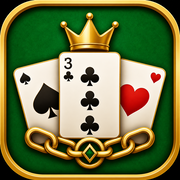
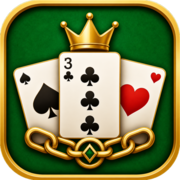
style: restyle UI to shadcn-like dark theme (zinc surfaces, subtle borders, focus rings, gold primary)

diff --git a/client/src/style.css b/client/src/style.css
@@ -3,68 +3,85 @@
 @import 'tailwindcss/theme.css' layer(theme);
 @import 'tailwindcss/utilities.css' layer(utilities);
 
+/* ---------- ธีม shadcn (dark / zinc) ---------- */
 :root {
-  --green: #0f5132;
-  --green-light: #157347;
-  --felt: #15803d;
-  --gold: #f5c542;
-  --red: #d6336c;
-  --ink: #1a1a2e;
-  --paper: #fff;
+  --background: #0a0a0b;
+  --surface: #161618;       /* card */
+  --surface-2: #202024;     /* nested / hover */
+  --border: #2a2a30;
+  --foreground: #fafafa;
+  --muted-foreground: #a1a1aa;
+  --primary: #f5c542;       /* gold accent */
+  --primary-foreground: #18181b;
+  --primary-hover: #e6b933;
+  --ring: rgba(245, 197, 66, 0.45);
+  --red: #ef4444;           /* แดง (ดอกไพ่ + error) */
+  --paper: #fafafa;         /* หน้าไพ่ */
+  --ink: #18181b;           /* ตัวเลขบนไพ่ */
+  --radius: 12px;
 }
 * { box-sizing: border-box; margin: 0; padding: 0; -webkit-tap-highlight-color: transparent; }
 html, body { height: 100%; }
 body {
   font-family: 'Sarabun', -apple-system, 'Segoe UI', system-ui, sans-serif;
-  background: radial-gradient(circle at 50% 20%, #1c7d4a, #0b3d24 70%);
-  color: #fff;
+  background: radial-gradient(circle at 50% -10%, #15241d 0%, var(--background) 62%);
+  color: var(--foreground);
   min-height: 100dvh;
   overflow-x: hidden;
 }
 .screen { min-height: 100dvh; display: flex; flex-direction: column; position: relative; }
 .hidden { display: none !important; }
 
+/* ---------- ฟอร์ม (shadcn) ---------- */
+input {
+  padding: 10px 14px; border-radius: 8px;
+  border: 1px solid var(--border);
+  font-size: 0.95rem; font-family: inherit;
+  background: var(--background); color: var(--foreground);
+  transition: border-color .15s, box-shadow .15s;
+}
+input::placeholder { color: var(--muted-foreground); }
+input:focus { outline: none; border-color: var(--primary); box-shadow: 0 0 0 3px var(--ring); }
+button {
+  padding: 10px 16px; border-radius: 8px; border: 1px solid var(--border);
+  font-size: 0.9rem; font-weight: 600; font-family: inherit; cursor: pointer;
+  background: var(--surface-2); color: var(--foreground);
+  transition: background .15s, border-color .15s, transform .06s, box-shadow .15s;
+}
+button:hover { background: #2a2a30; }
+button:active { transform: scale(0.98); }
+button:focus-visible { outline: none; box-shadow: 0 0 0 3px var(--ring); }
+button.primary { background: var(--primary); color: var(--primary-foreground); border-color: transparent; font-weight: 700; }
+button.primary:hover { background: var(--primary-hover); }
+button:disabled { opacity: 0.5; cursor: not-allowed; }
+
 /* ---------- Lobby ---------- */
 #lobby-screen { align-items: center; justify-content: center; padding: 20px; }
 .card-panel {
-  background: rgba(255,255,255,0.08);
-  backdrop-filter: blur(8px);
-  border: 1px solid rgba(255,255,255,0.15);
-  border-radius: 20px;
-  padding: 32px 24px;
-  width: 100%; max-width: 360px;
+  background: var(--surface);
+  border: 1px solid var(--border);
+  border-radius: var(--radius);
+  padding: 28px 24px;
+  width: 100%; max-width: 380px;
   display: flex; flex-direction: column; gap: 12px;
-  box-shadow: 0 20px 60px rgba(0,0,0,0.4);
+  box-shadow: 0 12px 36px rgba(0,0,0,0.5);
 }
 .project-logo {
-  width: 96px; height: 96px; object-fit: cover; align-self: center;
-  border-radius: 22px; box-shadow: 0 10px 28px rgba(0,0,0,0.35);
+  width: 88px; height: 88px; object-fit: cover; align-self: center;
+  border-radius: 18px; border: 1px solid var(--border);
+  box-shadow: 0 8px 24px rgba(0,0,0,0.4);
 }
-.card-panel h1 { text-align: center; font-size: 2.2rem; }
-.sub { text-align: center; opacity: 0.8; margin-bottom: 8px; }
-input {
-  padding: 14px 16px; border-radius: 12px; border: none;
-  font-size: 1.05rem; font-family: inherit; background: #fff; color: var(--ink);
-}
-input:focus { outline: 3px solid var(--gold); }
-button {
-  padding: 14px 16px; border-radius: 12px; border: none; cursor: pointer;
-  font-size: 1.05rem; font-weight: 700; font-family: inherit;
-  background: rgba(255,255,255,0.15); color: #fff; transition: transform .08s, background .15s;
-}
-button:active { transform: scale(0.97); }
-button.primary { background: var(--gold); color: var(--ink); }
-button:disabled { opacity: 0.4; cursor: not-allowed; }
-.divider { display: flex; align-items: center; gap: 10px; opacity: 0.6; margin: 4px 0; }
-.divider::before, .divider::after { content: ''; flex: 1; height: 1px; background: rgba(255,255,255,0.3); }
+.card-panel h1 { text-align: center; font-size: 1.9rem; font-weight: 800; letter-spacing: -0.02em; }
+.sub { text-align: center; color: var(--muted-foreground); font-size: 0.9rem; margin-bottom: 8px; }
+.divider { display: flex; align-items: center; gap: 10px; color: var(--muted-foreground); margin: 4px 0; }
+.divider::before, .divider::after { content: ''; flex: 1; height: 1px; background: var(--border); }
 
 /* ปุ่มสร้างห้อง / เข้าห้อง วางคู่กัน */
 .lobby-actions { display: flex; gap: 10px; }
 .lobby-actions button { flex: 1; }
 /* ไฮไลต์ปุ่ม "เข้าห้อง" ตอนเปิดช่องรหัสอยู่ */
 #join-toggle-btn.active {
-  background: rgba(245,197,66,0.15); color: var(--gold);
-  box-shadow: inset 0 0 0 2px var(--gold);
+  background: rgba(245,197,66,0.12); color: var(--primary); border-color: var(--primary);
 }
 
 /* ช่องรหัสห้อง — สไลด์เผยตอนกด "เข้าห้อง" */
@@ -84,23 +101,24 @@ button:disabled { opacity: 0.4; cursor: not-allowed; }
   letter-spacing: 6px; font-weight: 800; font-size: 1.3rem;
 }
 #code-input::placeholder { letter-spacing: normal; font-weight: 400; font-size: 0.95rem; }
-.error { color: #ffd0d0; text-align: center; min-height: 1.2em; font-size: 0.9rem; }
+.error { color: var(--red); text-align: center; min-height: 1.2em; font-size: 0.9rem; }
 
 /* ---------- Game ---------- */
 #topbar {
   display: flex; justify-content: center; align-items: center;
-  padding: 10px 16px; background: rgba(0,0,0,0.25);
+  padding: 12px 16px; background: var(--surface); border-bottom: 1px solid var(--border);
 }
-.room-code { font-size: 0.95rem; opacity: 0.9; cursor: pointer; -webkit-user-select: none; user-select: none; }
-.room-code strong { color: var(--gold); letter-spacing: 2px; font-size: 1.1rem; }
+.room-code { font-size: 0.9rem; color: var(--muted-foreground); cursor: pointer; -webkit-user-select: none; user-select: none; }
+.room-code strong { color: var(--primary); letter-spacing: 2px; font-size: 1.05rem; }
 .room-code .copy-hint { font-size: 0.85rem; opacity: 0.7; }
 .room-code:active { opacity: 0.6; }
 
-/* Toast แจ้งเตือนชั่วคราว */
+/* Toast แจ้งเตือนชั่วคราว (shadcn) */
 .toast {
   position: fixed; left: 50%; bottom: 32px; transform: translateX(-50%) translateY(10px);
-  background: var(--ink); color: #fff; padding: 12px 22px; border-radius: 24px;
-  font-size: 0.95rem; font-weight: 600; box-shadow: 0 6px 20px rgba(0,0,0,0.4);
+  background: var(--surface); color: var(--foreground); border: 1px solid var(--border);
+  padding: 12px 20px; border-radius: 10px;
+  font-size: 0.9rem; font-weight: 600; box-shadow: 0 10px 30px rgba(0,0,0,0.55);
   z-index: 1000; opacity: 0; transition: opacity .2s, transform .2s; pointer-events: none;
 }
 .toast.show { opacity: 1; transform: translateX(-50%) translateY(0); }
@@ -109,35 +127,34 @@ button:disabled { opacity: 0.4; cursor: not-allowed; }
 .toast.top { top: 24px; bottom: auto; transform: translateX(-50%) translateY(-10px); }
 .toast.top.show { transform: translateX(-50%) translateY(0); }
 /* สีแดงสำหรับ error */
-.toast.error { background: var(--red); color: #fff; }
+.toast.error { background: var(--red); color: #fff; border-color: transparent; }
 /* ชื่อคนที่ต้องลงไพ่ — ใต้กองไพ่ */
 #turn-info {
   position: relative; z-index: 1; min-height: 1.4em;
-  font-weight: 800; font-size: 1.05rem; text-align: center;
+  font-weight: 700; font-size: 1.05rem; text-align: center;
 }
-#turn-info.your-turn { color: var(--gold); animation: pulse 1.2s infinite; }
+#turn-info.your-turn { color: var(--primary); animation: pulse 1.2s infinite; }
 @keyframes pulse { 50% { opacity: 0.5; } }
 
 #players {
   display: flex; gap: 8px; padding: 12px 16px; flex-wrap: wrap; justify-content: center;
 }
 .player-chip {
-  background: rgba(255,255,255,0.1); border-radius: 14px; padding: 8px 12px;
+  background: var(--surface); border-radius: 10px; padding: 8px 12px;
   display: flex; flex-direction: column; align-items: center; min-width: 76px;
-  border: 2px solid transparent; transition: border-color .2s;
+  border: 1px solid var(--border); transition: border-color .2s, box-shadow .2s;
 }
-.player-chip.turn { border-color: var(--gold); box-shadow: 0 0 16px rgba(245,197,66,0.5); }
-.player-chip.finished { opacity: 0.55; }
-.player-chip .pname { font-weight: 700; font-size: 0.9rem; }
-.player-chip .pcount { font-size: 0.8rem; opacity: 0.85; }
-.player-chip .badge { font-size: 0.7rem; color: var(--gold); }
+.player-chip.turn { border-color: var(--primary); box-shadow: 0 0 0 1px var(--primary), 0 0 18px rgba(245,197,66,0.25); }
+.player-chip.finished { opacity: 0.5; }
+.player-chip .pname { font-weight: 600; font-size: 0.9rem; }
+.player-chip .pcount { font-size: 0.8rem; color: var(--muted-foreground); }
+.player-chip .badge { font-size: 0.7rem; color: var(--primary); }
 .player-chip .ptitle {
   margin-top: 3px; font-size: 0.72rem; font-weight: 700;
-  padding: 1px 8px; border-radius: 10px;
-  background: rgba(245,197,66,0.18); color: var(--gold);
+  padding: 1px 8px; border-radius: 999px;
+  background: rgba(245,197,66,0.15); color: var(--primary); border: 1px solid rgba(245,197,66,0.3);
 }
 .player-chip.offline .pname::after { content: ' 📴'; }
-
 
 #table {
   flex: 1; display: flex; flex-direction: column; align-items: center; justify-content: center;
@@ -147,37 +164,38 @@ button:disabled { opacity: 0.4; cursor: not-allowed; }
 #dir-indicator {
   position: absolute; top: 50%; left: 52.5%; transform: translate(-50%, -50%) rotate(90deg);
   font-size: clamp(140px, 32vh, 300px); line-height: 1; font-weight: 400;
-  color: #fff; opacity: 0.07; pointer-events: none; z-index: 0;
+  color: #fff; opacity: 0.05; pointer-events: none; z-index: 0;
   -webkit-user-select: none; user-select: none;
 }
 #pile-label, #pile-cards { position: relative; z-index: 1; }
-#pile-label { opacity: 0.6; font-size: 0.85rem; }
+#pile-label { color: var(--muted-foreground); font-size: 0.85rem; }
 #pile-cards { display: flex; gap: 6px; min-height: 92px; align-items: center; }
 
 /* ประวัติการลงไพ่ — แถวแนวนอน เลื่อนซ้าย-ขวา */
 #log {
   display: flex; align-items: center; gap: 10px;
   justify-content: safe center;
-  font-size: 0.8rem; padding: 8px 16px;
+  font-size: 0.8rem; padding: 8px 16px; color: var(--muted-foreground);
   white-space: nowrap; overflow-x: auto; overflow-y: hidden;
 }
 .log-item { flex: none; display: inline-flex; align-items: center; gap: 3px; }
-.log-name { opacity: 0.65; font-size: 0.72rem; margin-right: 2px; }
-.log-event { opacity: 0.6; font-size: 0.72rem; }
-.log-pass { opacity: 0.5; }
+.log-name { color: var(--muted-foreground); font-size: 0.72rem; margin-right: 2px; }
+.log-event { color: var(--muted-foreground); font-size: 0.72rem; }
+.log-pass { opacity: 0.65; }
 .mini-card {
   display: inline-flex; align-items: center; justify-content: center;
-  background: #fff; color: var(--ink); border-radius: 4px;
+  background: var(--paper); color: var(--ink); border-radius: 4px;
   padding: 2px 5px; font-size: 0.72rem; font-weight: 800; line-height: 1;
-  box-shadow: 0 1px 2px rgba(0,0,0,0.3);
+  box-shadow: 0 1px 3px rgba(0,0,0,0.5);
 }
 .mini-card.red { color: var(--red); }
 
 /* ---------- Cards ---------- */
 .playing-card {
-  width: 62px; height: 88px; border-radius: 9px; background: var(--paper);
+  width: 62px; height: 88px; border-radius: 8px; background: var(--paper);
   color: var(--ink); position: relative; flex-shrink: 0;
-  box-shadow: 0 3px 8px rgba(0,0,0,0.35); font-weight: 800;
+  border: 1px solid rgba(0,0,0,0.08);
+  box-shadow: 0 3px 10px rgba(0,0,0,0.45); font-weight: 800;
   display: flex; align-items: center; justify-content: center; -webkit-user-select: none; user-select: none;
 }
 .playing-card.red { color: var(--red); }
@@ -187,7 +205,7 @@ button:disabled { opacity: 0.4; cursor: not-allowed; }
 .playing-card .pip { font-size: 1.7rem; }
 
 #hand-area {
-  background: rgba(0,0,0,0.3);
+  background: var(--surface); border-top: 1px solid var(--border);
   padding: 10px 10px max(10px, env(safe-area-inset-bottom));
   margin-top: auto; /* ดันชิดขอบล่างสุดของจอ */
 }
@@ -196,20 +214,19 @@ button:disabled { opacity: 0.4; cursor: not-allowed; }
   padding: 4px 4px 8px; overflow-x: auto;
 }
 #combo-hints.hidden { display: none; }
-.combo-hints-label { font-size: 0.78rem; opacity: 0.8; white-space: nowrap; }
+.combo-hints-label { font-size: 0.78rem; color: var(--muted-foreground); white-space: nowrap; }
 .combo-chip {
-  flex: none; width: auto; font-size: 0.8rem; font-weight: 700;
-  padding: 5px 10px; border-radius: 14px; border: 1px solid var(--gold);
-  background: rgba(245,197,66,0.15); color: var(--gold);
-  cursor: pointer; white-space: nowrap; transition: background .12s;
+  flex: none; width: auto; font-size: 0.8rem; font-weight: 600;
+  padding: 5px 12px; border-radius: 999px; border: 1px solid rgba(245,197,66,0.4);
+  background: rgba(245,197,66,0.1); color: var(--primary);
+  cursor: pointer; white-space: nowrap; transition: background .12s, color .12s;
 }
-.combo-chip:active { background: rgba(245,197,66,0.35); }
-.combo-chip.active { background: var(--gold); color: var(--ink); }
+.combo-chip:active { background: rgba(245,197,66,0.25); }
+.combo-chip.active { background: var(--primary); color: var(--primary-foreground); border-color: transparent; }
 /* ปุ่มสลับโหมดเรียงไพ่ */
 #sort-toggle {
   display: block; margin: 0 auto 6px; width: auto; flex: none;
-  font-size: 0.78rem; font-weight: 700; padding: 6px 14px; border-radius: 14px;
-  background: rgba(255,255,255,0.12);
+  font-size: 0.78rem; font-weight: 600; padding: 6px 14px; border-radius: 999px;
 }
 #hand {
   display: flex; gap: 0; overflow-x: auto; overflow-y: visible;
@@ -221,7 +238,7 @@ button:disabled { opacity: 0.4; cursor: not-allowed; }
   width: 58px; height: 84px;
 }
 #hand .playing-card:first-child { margin-left: 0; }
-#hand .playing-card.selected { transform: translateY(-18px); box-shadow: 0 8px 16px rgba(0,0,0,0.5); outline: 3px solid var(--gold); }
+#hand .playing-card.selected { transform: translateY(-18px); box-shadow: 0 10px 20px rgba(0,0,0,0.55); outline: 2px solid var(--primary); outline-offset: 1px; }
 #actions { display: flex; gap: 10px; padding: 0 8px; }
 #actions button { flex: 1; }
 
@@ -231,49 +248,54 @@ button:disabled { opacity: 0.4; cursor: not-allowed; }
   position: absolute; left: 50%; top: 50%;
   transform: translate(-50%, -50%);
   flex: none; width: auto; min-width: 240px; max-width: 80vw;
-  padding: 18px 44px; font-size: 1.25rem;
-  border-radius: 16px; z-index: 20;
-  box-shadow: 0 12px 32px rgba(0,0,0,0.45);
+  padding: 16px 44px; font-size: 1.15rem;
+  border-radius: 12px; z-index: 20;
+  box-shadow: 0 16px 40px rgba(0,0,0,0.5);
 }
 #start-btn:not(.hidden):active,
 #again-btn:not(.hidden):active {
   transform: translate(-50%, -50%) scale(0.97);
 }
 
-/* ---------- Modal ---------- */
+/* ---------- Modal (shadcn dialog) ---------- */
 .modal {
-  position: fixed; inset: 0; background: rgba(0,0,0,0.7);
+  position: fixed; inset: 0; background: rgba(0,0,0,0.8);
   display: flex; align-items: center; justify-content: center; padding: 20px; z-index: 50;
 }
 .modal-box {
-  background: #fff; color: var(--ink); border-radius: 20px; padding: 28px;
-  width: 100%; max-width: 340px; text-align: center;
+  background: var(--surface); color: var(--foreground);
+  border: 1px solid var(--border); border-radius: var(--radius); padding: 24px;
+  width: 100%; max-width: 360px; text-align: center;
+  box-shadow: 0 24px 60px rgba(0,0,0,0.6);
 }
-.modal-box h2 { margin-bottom: 16px; }
+.modal-box h2 { margin-bottom: 16px; font-weight: 800; }
 #result-list { text-align: left; list-style: none; }
-#result-list li { padding: 10px 14px; margin: 6px 0; border-radius: 10px; background: #f0f0f5; font-weight: 700; }
-#result-list li.rank-0 { background: var(--gold); }
-#result-list li.rank-last { background: #ffd0d0; }
-#result-close { margin-top: 16px; background: var(--green); color: #fff; width: 100%; }
+#result-list li {
+  padding: 10px 14px; margin: 6px 0; border-radius: 8px;
+  background: var(--surface-2); border: 1px solid var(--border); color: var(--foreground); font-weight: 700;
+}
+#result-list li.rank-0 { background: var(--primary); color: var(--primary-foreground); border-color: transparent; }
+#result-list li.rank-last { background: rgba(239,68,68,0.16); border-color: rgba(239,68,68,0.4); }
+#result-close { margin-top: 16px; width: 100%; }
 
 /* ปุ่มกติกา (ghost) + footer ลิงก์ในหน้า lobby */
 .ghost-btn {
-  background: transparent; border: 1px solid rgba(255,255,255,0.3);
-  color: #fff; font-size: 0.95rem; margin-top: 4px;
+  background: transparent; border: 1px solid var(--border);
+  color: var(--muted-foreground); font-size: 0.9rem; margin-top: 4px;
 }
-.ghost-btn:active { background: rgba(255,255,255,0.1); }
+.ghost-btn:hover { background: var(--surface-2); color: var(--foreground); }
 .lobby-foot { margin-top: 16px; text-align: center; }
-.lobby-foot a { color: rgba(255,255,255,0.75); font-size: 0.85rem; text-decoration: none; }
-.lobby-foot a:hover { color: var(--gold); text-decoration: underline; }
+.lobby-foot a { color: var(--muted-foreground); font-size: 0.85rem; text-decoration: none; }
+.lobby-foot a:hover { color: var(--primary); text-decoration: underline; }
 
 /* กล่องกติกา — เลื่อนอ่านได้ */
-.rules-box { max-width: 440px; text-align: left; }
+.rules-box { max-width: 460px; text-align: left; }
 .rules-content {
   max-height: 60vh; overflow-y: auto; margin: 4px -4px 0; padding: 0 8px;
-  font-size: 0.9rem; line-height: 1.5;
+  font-size: 0.9rem; line-height: 1.55;
 }
-.rules-content h3 { margin: 14px 0 4px; font-size: 0.95rem; color: var(--green); }
+.rules-content h3 { margin: 14px 0 4px; font-size: 0.95rem; color: var(--primary); }
 .rules-content h3:first-child { margin-top: 0; }
-.rules-content p { margin: 0; color: #333; }
-.rules-content b { color: var(--ink); }
+.rules-content p { margin: 0; color: var(--muted-foreground); }
+.rules-content b { color: var(--foreground); }
 #rules-close { margin-top: 16px; width: 100%; }